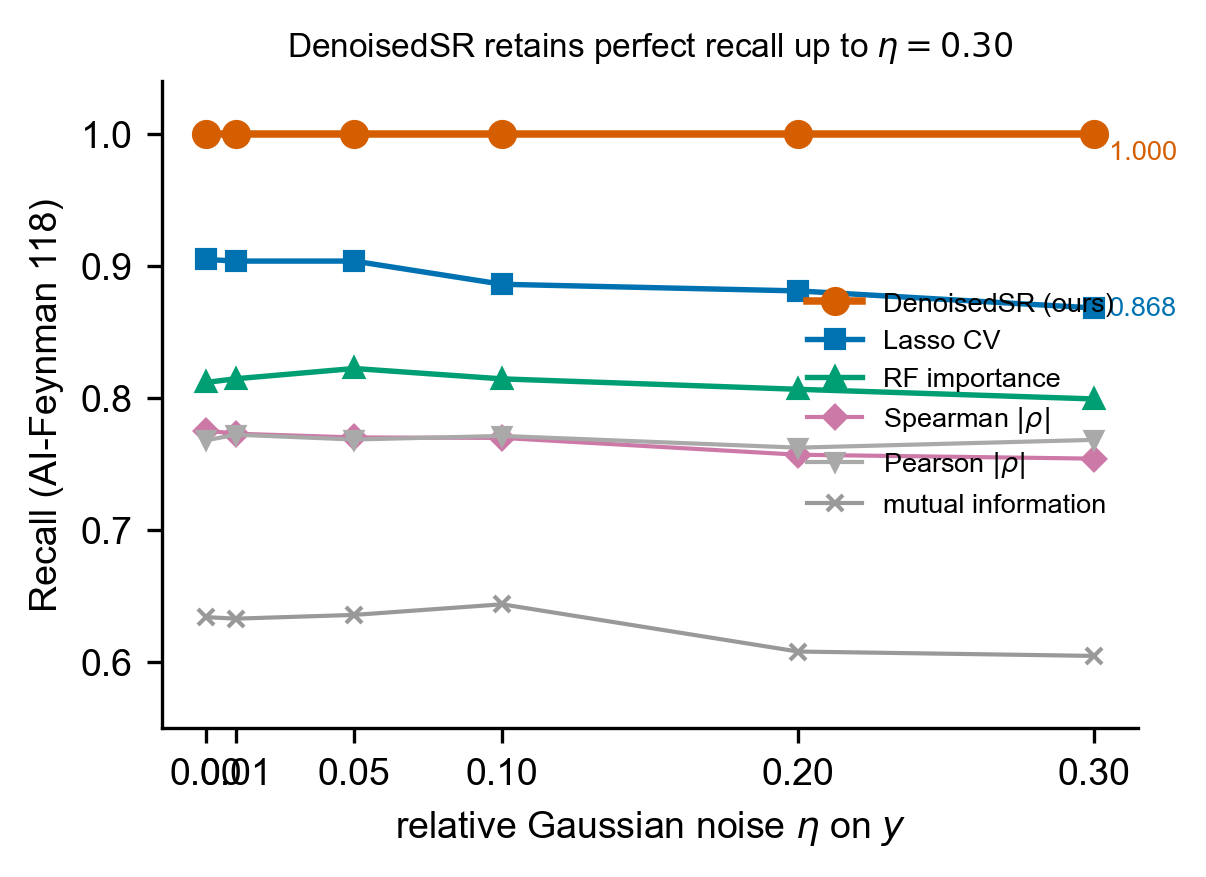
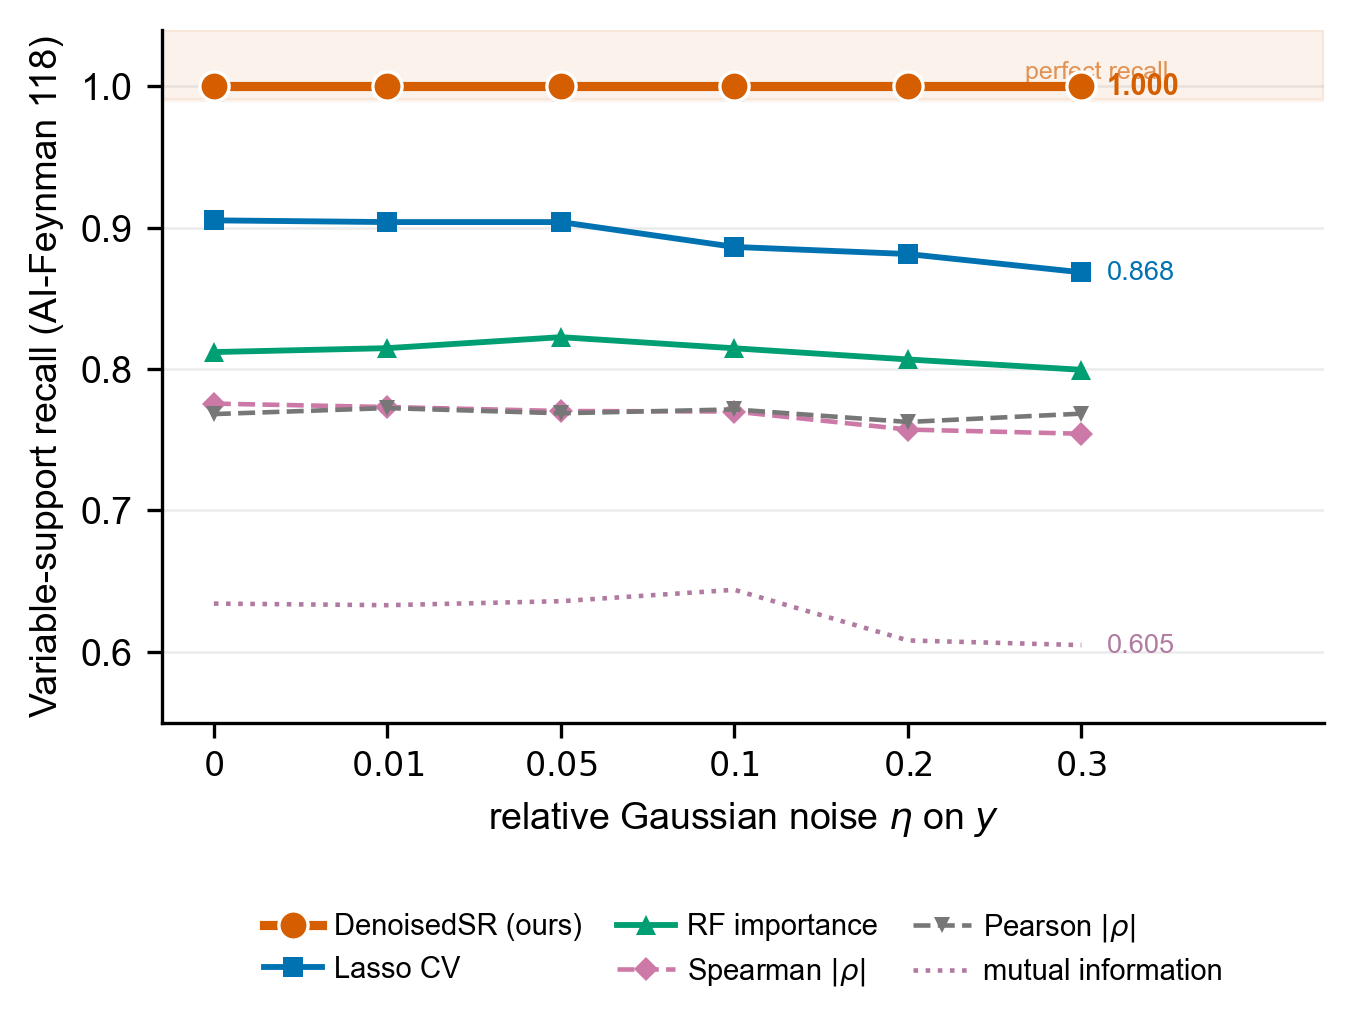
Fig 4 (noise robustness) redesigned: ordinal x positions so eta tickmarks (0, 0.01, 0.05, 0.10, 0.20, 0.30) are evenly spread; perfect-recall band shaded; endpoint values annotated; legend moved below the plot.

Changed region(s): [[0.0, 0.0308, 0.9818, 0.9544], [0.7977, 0.6157, 0.859, 0.6465]]

diff --git a/paper/code/make_figures.py b/paper/code/make_figures.py
@@ -278,11 +278,11 @@ def fig_srsd():
     save(fig, 'fig_srsd')
 
 
-# fig_noise: noise robustness curves — DenoisedSR vs all 5 classical baselines
+# fig_noise: noise robustness curves — DenoisedSR vs 5 classical baselines.
+# Plotted on ordinal x positions (eta values labeled) so that 0, 0.01, 0.05, 0.10, 0.20, 0.30 are visually spread out.
 def fig_noise():
     s = J('data/results/noise_sweep.json')['summary']
     etas = sorted([float(k.split('_')[1]) for k in s])
-    # Support both new schema (per-method dict) and legacy keys
     def val(eta, m):
         e = s[f'eta_{eta}']
         if m == 'denoisedsr':
@@ -290,29 +290,47 @@ def fig_noise():
         if m in e:
             return e[m]['mean']
         return e.get(f'{m}_recall')
+    # ordinal x positions so unevenly-spaced eta values display clearly
+    xs = np.arange(len(etas))
     methods = [
-        ('denoisedsr', 'DenoisedSR (ours)', OURS, '-', 'o', 1.8, 6),
-        ('lasso',     'Lasso CV',            FULL, '-', 's', 1.3, 4.5),
-        ('rf',        'RF importance',       ORAC, '-', '^', 1.3, 4.5),
-        ('spearman',  'Spearman $|\\rho|$',  ACC,  '-', 'D', 1.0, 3.8),
-        ('pearson',   'Pearson $|\\rho|$',   '#A9A9A9', '-', 'v', 1.0, 3.8),
-        ('mi',        'mutual information',  RAND, '-', 'x', 1.0, 4.0),
+        ('denoisedsr', 'DenoisedSR (ours)',   OURS,   '-',  'o', 2.2, 7.0, 10),
+        ('lasso',      'Lasso CV',            FULL,   '-',  's', 1.4, 5.0, 4),
+        ('rf',         'RF importance',       ORAC,   '-',  '^', 1.4, 5.0, 4),
+        ('spearman',   r'Spearman $|\rho|$',  ACC,    '--', 'D', 1.1, 4.0, 3),
+        ('pearson',    r'Pearson $|\rho|$',   '#777777', '--', 'v', 1.1, 4.0, 3),
+        ('mi',         'mutual information',  '#B07AA1', ':',  'x', 1.1, 4.5, 3),
     ]
-    fig, ax = plt.subplots(figsize=(4.2, 2.8))
-    for m, lab, col, ls, mk, lw, ms in methods:
+    fig, ax = plt.subplots(figsize=(5.0, 3.0))
+    # subtle background: above 0.99 = perfect region
+    ax.axhspan(0.99, 1.04, color=OURS, alpha=0.08, zorder=0)
+    ax.text(len(etas)-0.5, 1.01, 'perfect recall', color=OURS, fontsize=6.0,
+            ha='right', va='center', alpha=0.65, zorder=1)
+    for m, lab, col, ls, mk, lw, ms, z in methods:
         ys = [val(e, m) for e in etas]
-        ax.plot(etas, ys, ls=ls, marker=mk, color=col, lw=lw, ms=ms, label=lab)
-    # annotate endpoints for ours and lasso
-    ax.text(etas[-1]+0.005, val(etas[-1], 'denoisedsr')-0.005, '1.000',
-            color=OURS, fontsize=6.5, va='top')
-    ax.text(etas[-1]+0.005, val(etas[-1], 'lasso'), f"{val(etas[-1], 'lasso'):.3f}",
-            color=FULL, fontsize=6.5, va='center')
+        ax.plot(xs, ys, ls=ls, marker=mk, color=col, lw=lw, ms=ms, label=lab,
+                zorder=z, markerfacecolor=col, markeredgecolor='white' if m=='denoisedsr' else col,
+                markeredgewidth=0.8 if m=='denoisedsr' else 0)
+    # endpoint value annotations for the three most important lines, offset to right
+    end = xs[-1]
+    ax.annotate(f'1.000', xy=(end, val(etas[-1], 'denoisedsr')),
+                xytext=(6, 0), textcoords='offset points',
+                color=OURS, fontsize=7, fontweight='bold', va='center')
+    ax.annotate(f"{val(etas[-1], 'lasso'):.3f}", xy=(end, val(etas[-1], 'lasso')),
+                xytext=(6, 0), textcoords='offset points',
+                color=FULL, fontsize=6.5, va='center')
+    ax.annotate(f"{val(etas[-1], 'mi'):.3f}", xy=(end, val(etas[-1], 'mi')),
+                xytext=(6, 0), textcoords='offset points',
+                color='#B07AA1', fontsize=6.5, va='center')
     ax.set_xlabel(r'relative Gaussian noise $\eta$ on $y$')
-    ax.set_ylabel('Recall (AI-Feynman 118)')
-    ax.set_xticks(etas)
+    ax.set_ylabel('Variable-support recall (AI-Feynman 118)')
+    ax.set_xticks(xs)
+    ax.set_xticklabels([f'${e:g}$' for e in etas], fontsize=8)
+    ax.set_xlim(-0.3, len(etas) + 0.4)
     ax.set_ylim(0.55, 1.04)
-    ax.legend(loc='center right', fontsize=6.5, ncol=1)
-    ax.set_title('DenoisedSR retains perfect recall up to $\\eta=0.30$', fontsize=8)
+    ax.set_yticks([0.6, 0.7, 0.8, 0.9, 1.0])
+    ax.grid(axis='y', alpha=0.25, lw=0.6)
+    ax.legend(loc='lower center', bbox_to_anchor=(0.5, -0.42), fontsize=7,
+              ncol=3, frameon=False, columnspacing=1.2, handletextpad=0.4)
     save(fig, 'fig_noise')
 
 